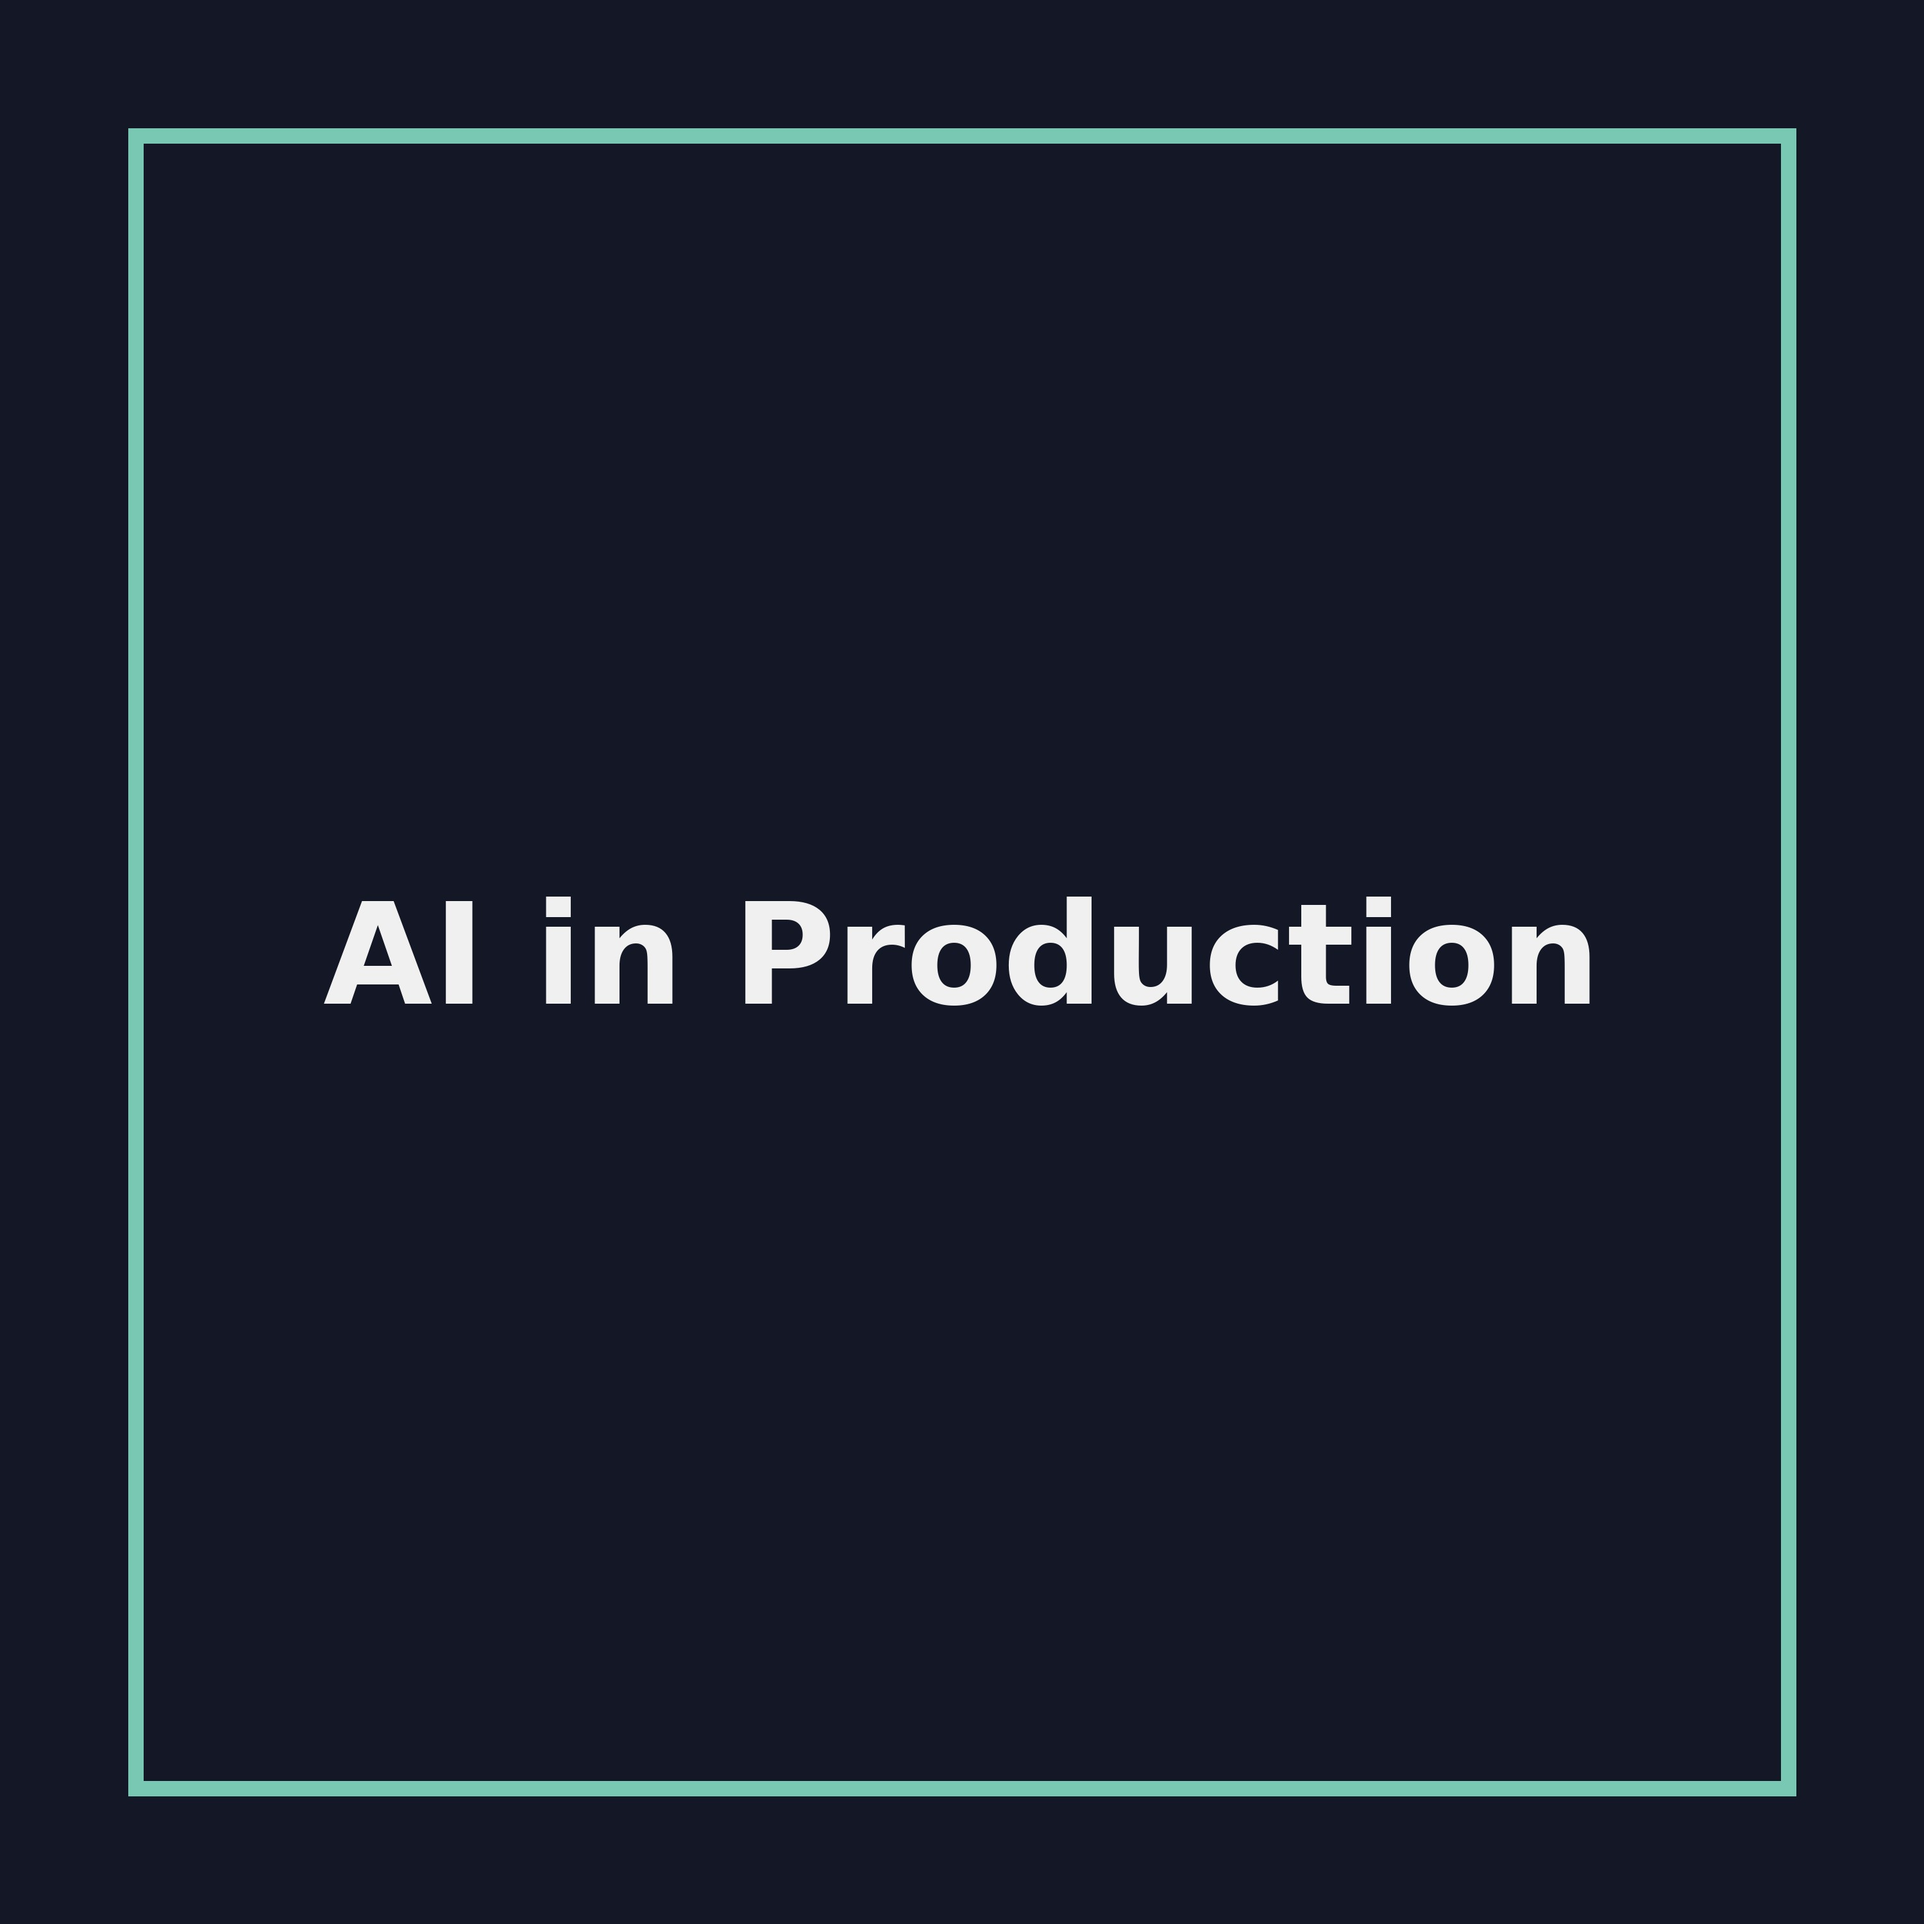
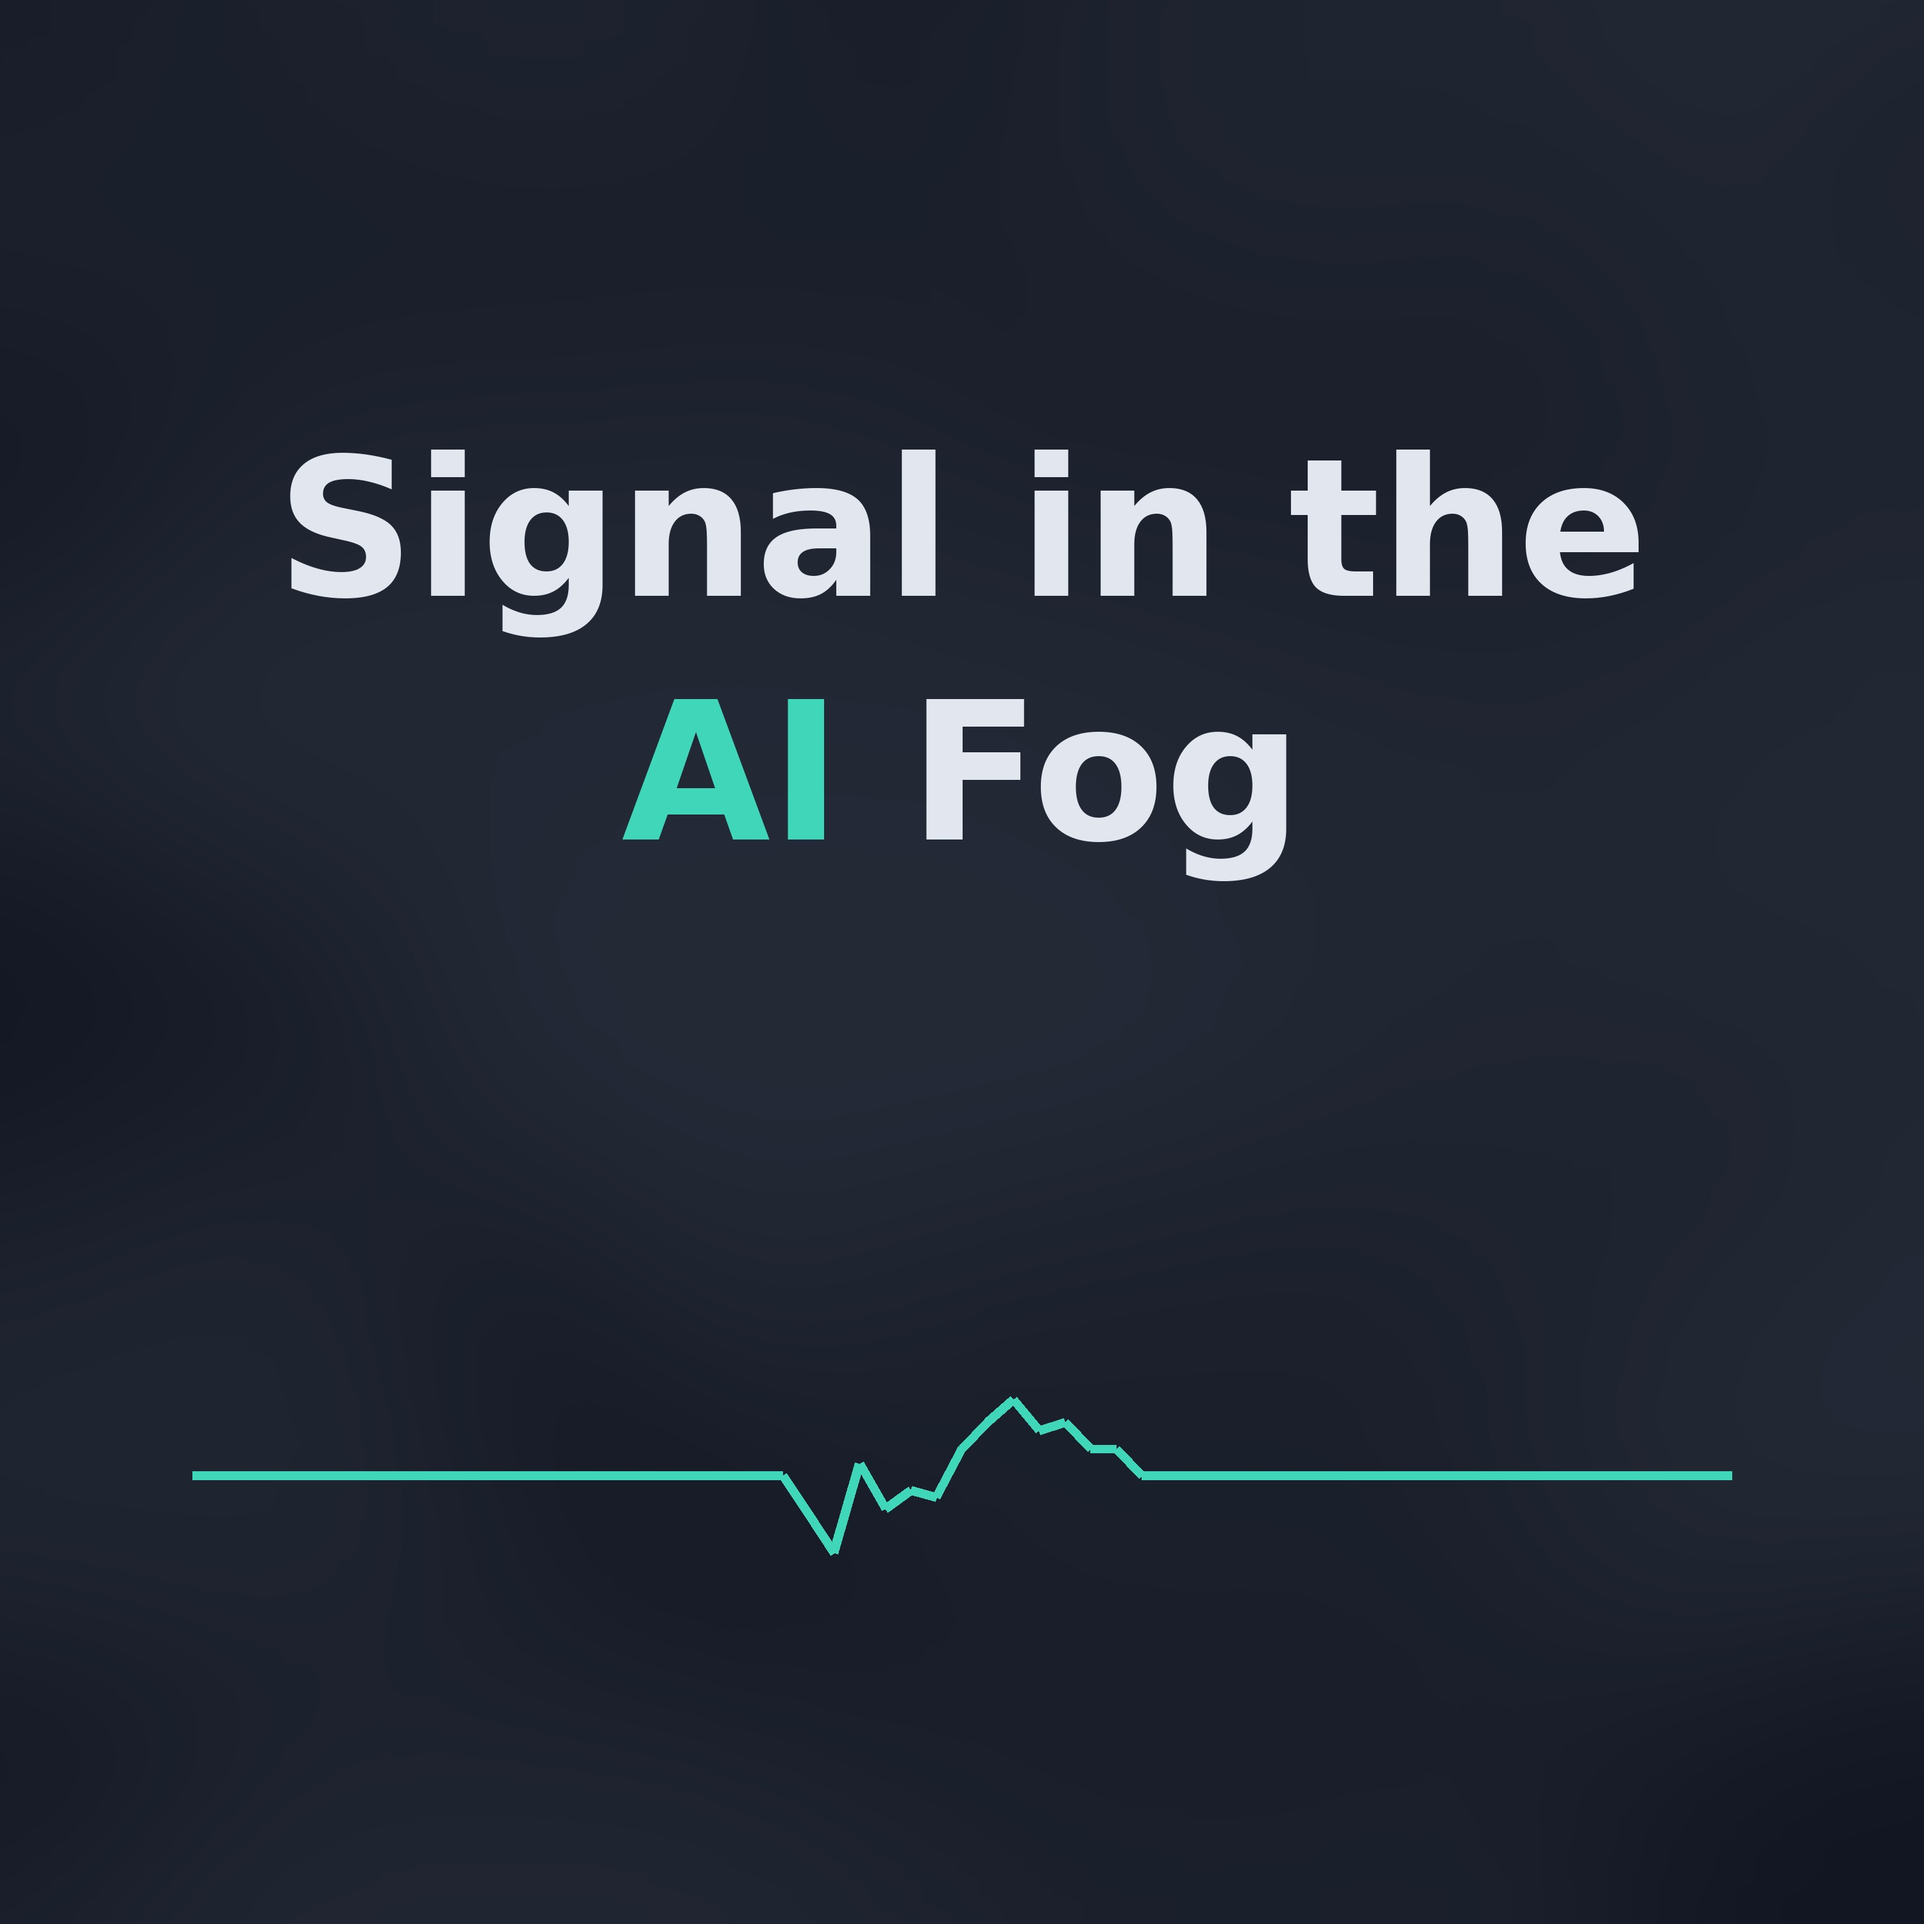
Nom du podcast : Signal in the AI Fog, nouvelle pochette

diff --git a/tools/make_cover.py b/tools/make_cover.py
@@ -1,36 +1,65 @@
-"""Génère une pochette simple (3000 x 3000 px) dans docs/cover.jpg.
+"""Génère la pochette du podcast (3000 x 3000 px) dans docs/cover.jpg.
 
-Usage : pip install pillow && python tools/make_cover.py "AI in Production"
-Remplacez-la par votre propre visuel si vous en avez un.
+Usage : pip install pillow && python tools/make_cover.py "Signal in the AI Fog"
+Le mot « AI » est mis en couleur d'accent. Remplacez par votre propre visuel si besoin.
 """
+import random
 import sys
 from pathlib import Path
 
-from PIL import Image, ImageDraw, ImageFont
+from PIL import Image, ImageDraw, ImageFilter, ImageFont
 
-title = sys.argv[1] if len(sys.argv) > 1 else "AI in Production"
-size = 3000
-img = Image.new("RGB", (size, size), (20, 24, 38))
+title = sys.argv[1] if len(sys.argv) > 1 else "Signal in the AI Fog"
+SIZE = 3000
+BG, TEXT, ACCENT = (18, 22, 34), (226, 230, 238), (64, 214, 186)
+
+# Fond : nappes de brouillard floutées
+img = Image.new("RGB", (SIZE, SIZE), BG)
+fog = Image.new("L", (SIZE, SIZE), 0)
+d = ImageDraw.Draw(fog)
+random.seed(7)
+for _ in range(40):
+    x, y = random.randint(-400, SIZE), random.randint(-400, SIZE)
+    r = random.randint(300, 900)
+    d.ellipse([x, y, x + 2 * r, y + r], fill=random.randint(18, 45))
+fog = fog.filter(ImageFilter.GaussianBlur(160))
+img = Image.composite(Image.new("RGB", (SIZE, SIZE), (120, 132, 150)), img, fog)
 draw = ImageDraw.Draw(img)
-draw.rectangle([200, 200, size - 200, size - 200], outline=(120, 200, 180), width=24)
+
+# Ligne de signal
+mid = SIZE - 700
+pts, x = [], 300
+while x <= SIZE - 300:
+    pts.append((x, mid + (0 if abs(x - SIZE / 2) > 260 else random.randint(-160, 160))))
+    x += 40
+draw.line(pts, fill=ACCENT, width=14)
+
 try:
-    font = ImageFont.truetype("DejaVuSans-Bold.ttf", 220)
+    font = ImageFont.truetype("DejaVuSans-Bold.ttf", 300)
 except OSError:
     font = ImageFont.load_default()
-words, lines, line = title.split(), [], ""
+
+# Découpage en lignes, en gardant chaque mot pour le colorier séparément
+words, lines, line = title.split(), [], []
 for w in words:
-    test = f"{line} {w}".strip()
-    if draw.textlength(test, font=font) > size - 700 and line:
+    test = " ".join(line + [w])
+    if line and draw.textlength(test, font=font) > SIZE - 600:
         lines.append(line)
-        line = w
+        line = [w]
     else:
-        line = test
+        line.append(w)
 lines.append(line)
-y = size // 2 - len(lines) * 140
+
+space = draw.textlength(" ", font=font)
+y = 650
 for ln in lines:
-    x = (size - draw.textlength(ln, font=font)) / 2
-    draw.text((x, y), ln, font=font, fill=(240, 240, 240))
-    y += 280
+    width = sum(draw.textlength(w, font=font) for w in ln) + space * (len(ln) - 1)
+    x = (SIZE - width) / 2
+    for w in ln:
+        draw.text((x, y), w, font=font, fill=ACCENT if w.upper() == "AI" else TEXT)
+        x += draw.textlength(w, font=font) + space
+    y += 380
+
 out = Path(__file__).resolve().parent.parent / "docs" / "cover.jpg"
 img.save(out, quality=90)
 print(f"Pochette enregistrée : {out}")
